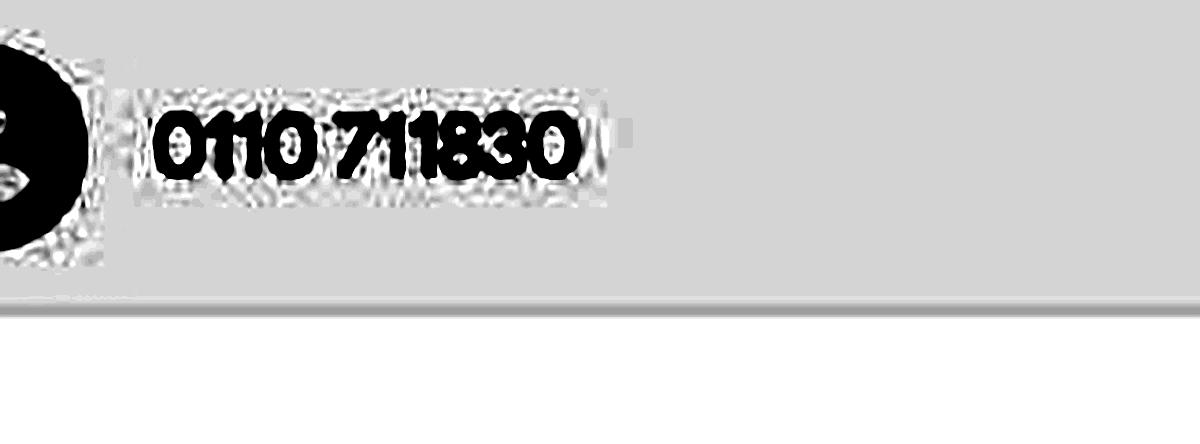
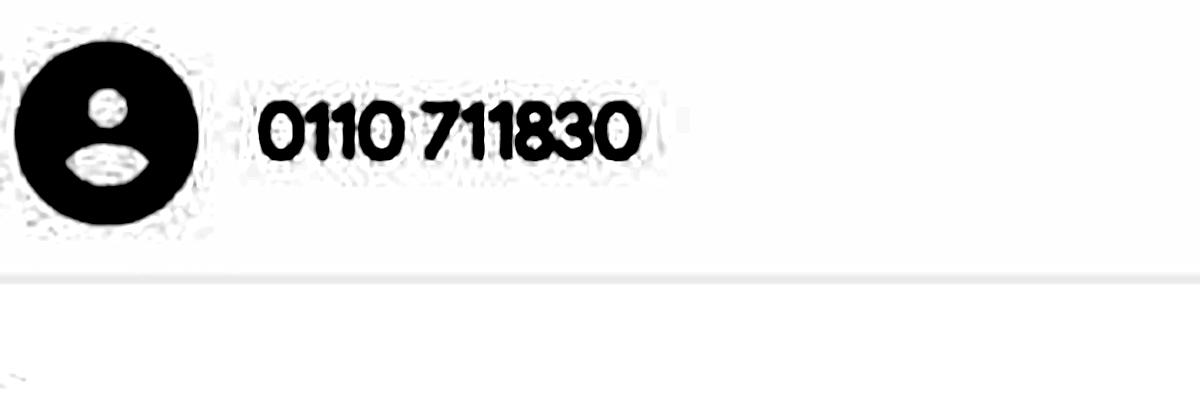
backend config

diff --git a/client/assets/js/upload.js b/client/assets/js/upload.js
@@ -40,7 +40,7 @@ uploadForm.addEventListener('submit', async (e) => {
     statusMessage.className = "mt-4 text-sm font-medium text-center text-blue-600";
 
     // Backend URL configuration
-    const BACKEND_ORIGIN = 'https://eb082c146b0e.ngrok-free.app';
+    const BACKEND_ORIGIN = 'https://95298d412767.ngrok-free.app';
     const UPLOAD_URL = (location.protocol === 'file:' || location.origin !== BACKEND_ORIGIN) 
         ? `${BACKEND_ORIGIN}/upload` 
         : '/upload';

diff --git a/client/assets/backend/helpers.py b/client/assets/backend/helpers.py
@@ -57,11 +57,11 @@ def preprocess_image(image_path):
     
     # For message screenshots, crop to the top portion where sender ID appears
     # Focus on top 120 pixels (or 10% of height, whichever is larger)
-    crop_height = max(120, int(height * 0.10))
+    crop_height = max(115, int(height * 0.1))
     
     # Also crop from the left side to avoid back button and other UI elements
     # Start from 15% of width to skip the back arrow
-    left_margin = int(width * 0.15)
+    left_margin = int(width * 0.1)
     right_boundary = int(width * 0.60)  # Only take left portion of header
     
     img = img.crop((left_margin, 0, right_boundary, crop_height))
